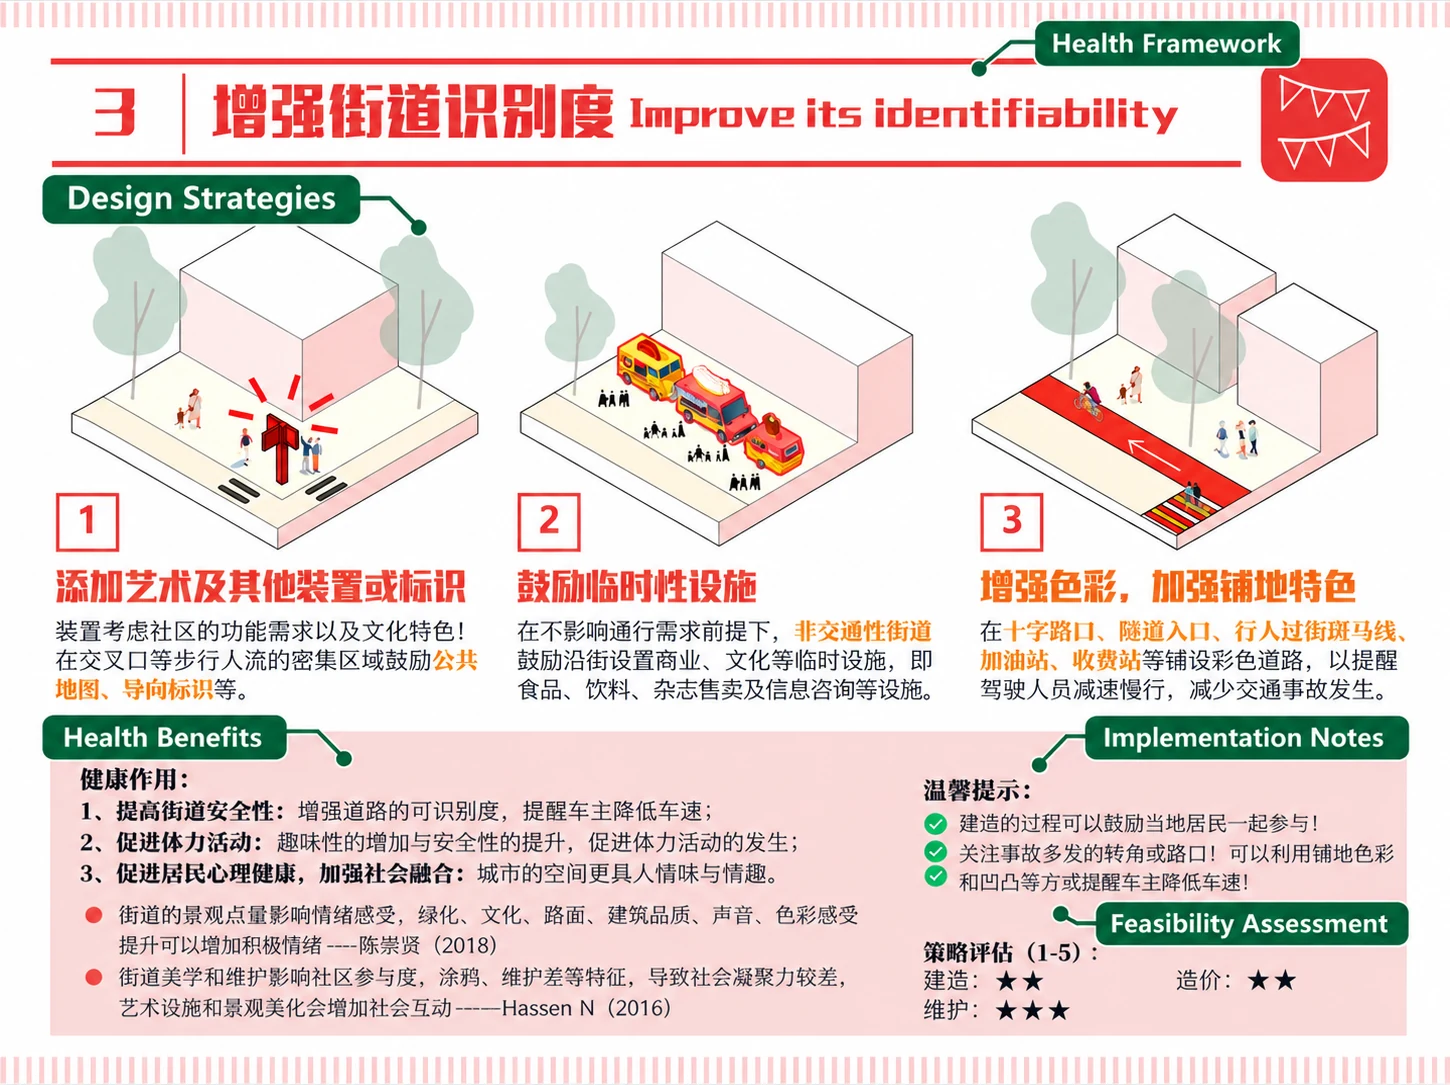
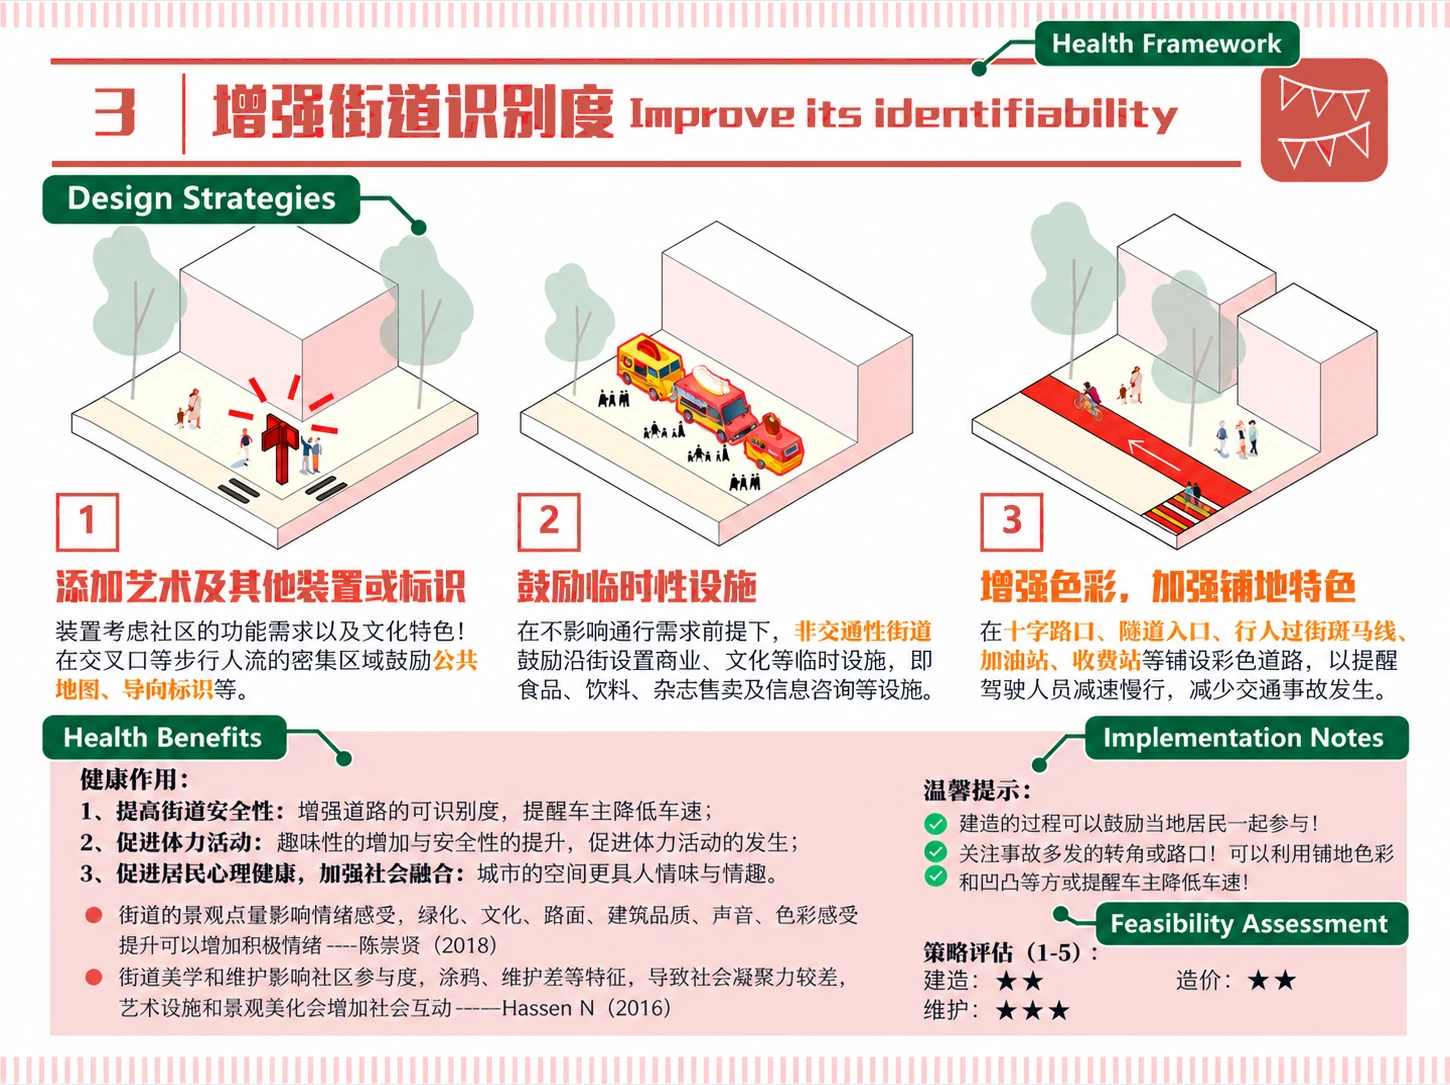
Fix homepage image and update project visuals

diff --git a/assets/css/_academic-site.scss b/assets/css/_academic-site.scss
@@ -1546,15 +1546,9 @@ body:has(.projects-page) .post-header .post-description {
 
 .projects-entry-handbook .projects-entry-heading h3 {
   color: var(--global-theme-color);
-  font-size: clamp(1.6rem, 2.5vw, 1.72rem);
+  font-size: clamp(1.42rem, 2.15vw, 1.55rem);
   font-weight: 700;
   line-height: 1.1;
-}
-
-@media (min-width: 761px) {
-  .projects-entry-handbook .projects-entry-heading h3 {
-    white-space: nowrap;
-  }
 }
 
 .projects-entry-meta {

diff --git a/_pages/about.md b/_pages/about.md
@@ -9,20 +9,13 @@ nav_order: 1
 <div class="academic-home">
   <div class="profile-layout">
     <aside class="profile-summary">
-      <figure>
-        <picture>
-          <img
-            src="{{ '/assets/img/tingjia-xu-profile-shanghai.webp' | relative_url }}"
-            class="profile-portrait"
-            width="1254"
-            height="1254"
-            alt="Portrait of Tingjia Xu"
-            loading="eager"
-            fetchpriority="high"
-            decoding="async"
-          >
-        </picture>
-      </figure>
+      {% include figure.liquid
+        loading="eager"
+        path="assets/img/tingjia-xu-profile-shanghai.webp"
+        class="profile-portrait"
+        sizes="(min-width: 901px) 235px, (min-width: 521px) 235px, 70vw"
+        alt="Portrait of Tingjia Xu"
+      %}
       <div class="profile-text">
         <div class="profile-identity">
           <h1 id="profile-name">Tingjia Xu</h1>

diff --git a/_pages/projects.md b/_pages/projects.md
@@ -43,7 +43,8 @@ nav_order: 4
               alt="Printed public edition of the handbook"
               width="1119"
               height="1086"
-              loading="lazy"
+              loading="eager"
+              fetchpriority="high"
               decoding="async"
             >
             <figcaption>Printed handbook</figcaption>
@@ -54,7 +55,7 @@ nav_order: 4
               alt="Five spatial elements of the handbook: streets, mobility, squares, greening, and buildings"
               width="3200"
               height="468"
-              loading="lazy"
+              loading="eager"
               decoding="async"
             >
             <figcaption>Five Spatial Elements</figcaption>
